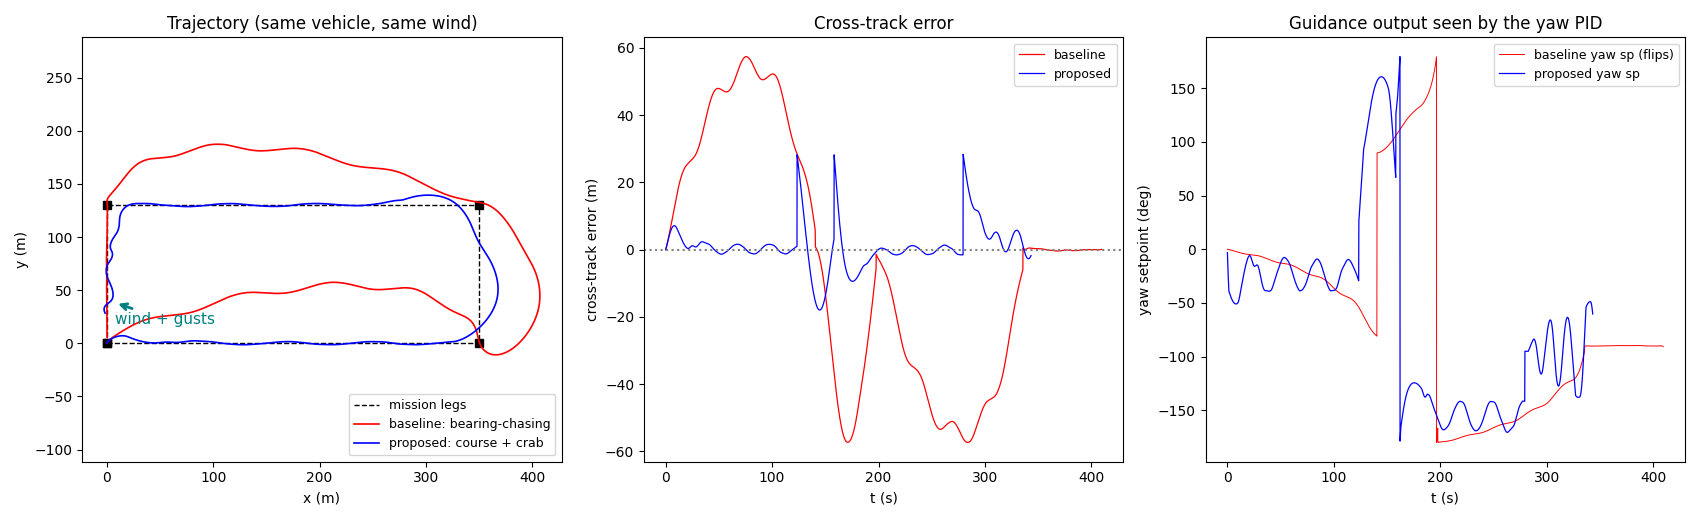
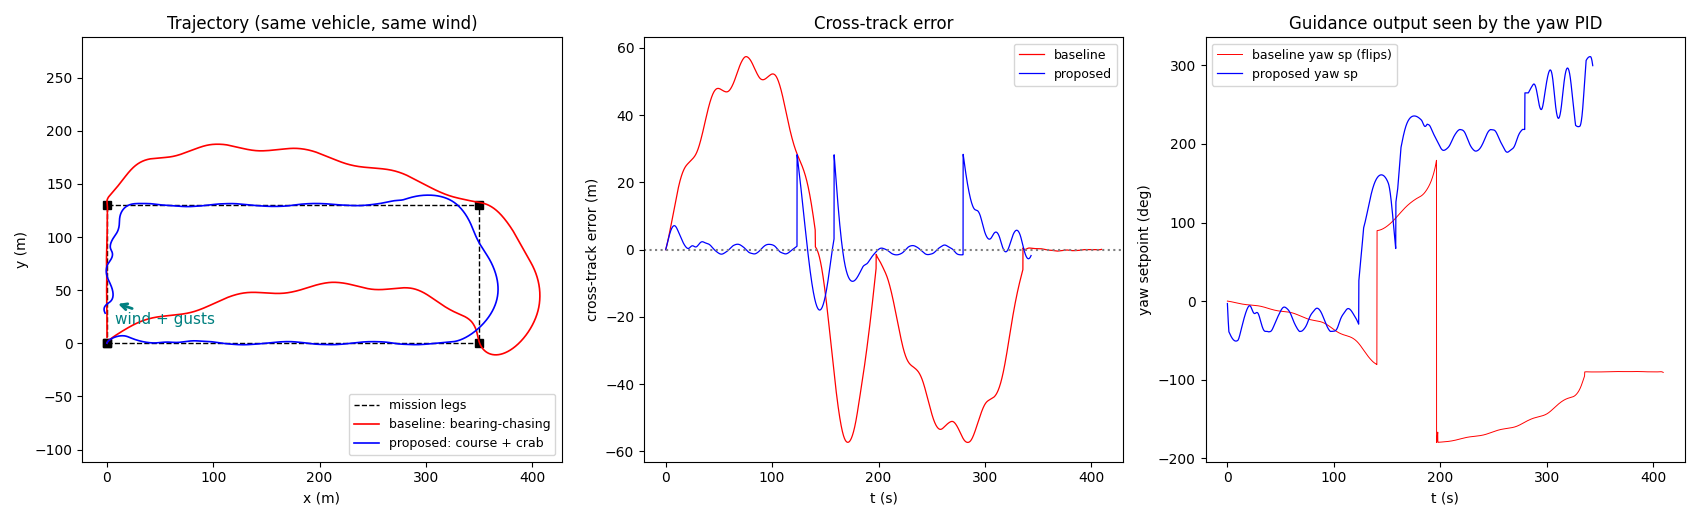
Honest whole-leg metrics after adversarial verification of Ex2 evidence
- metric bias removed (settled-portion filter only ever trimmed the proposed
  run); headline numbers restated: planar 7.5/28.4 m, sim 8.2-9.0/20.8-30.0 m
- guidance_demo: setpoint unwrap actually implemented (docstring was ahead
  of the code); flips column now measures a real property
- ANSWERS: ratios restated (2.6-3.2x RMS, 1.7-2.7x worst), +14-52% time,
  upwind-leg residual named, delivered-Fy transients quantified (0.05 N rms),
  crab-gain lesson scoped to the full sim; 4 seed JSONs shipped in analysis/

diff --git a/analysis/guidance_demo.py b/analysis/guidance_demo.py
@@ -143,7 +143,9 @@ def run(guidance):
                 course_meas = np.arctan2(vg[1], vg[0])
                 crab += 0.35 * wrap(course_cmd - course_meas) * DT
                 crab = np.clip(crab, -35 * D2R, 35 * D2R)
-            sp = wrap(course_cmd + crab)
+            # setpoint kept CONTINUOUS (unwrapped) for the yaw PID — the
+            # ±180° flip pathology of the flight log cannot happen here
+            sp = sp_prev + wrap(course_cmd + crab - sp_prev)
             yaw_err = wrap(sp - p.psi)        # shortest arc, always
             # switch anticipated by the physical turn radius (PX4-L1 style)
             r_turn = V_CRUISE / R_MAX
@@ -171,19 +173,17 @@ def run(guidance):
 
 
 def metrics(lg):
-    # per-leg cross-track on the settled portion: after the vehicle first
-    # comes within 8 m of the line (the corner turn radius, ~29 m at 6 deg/s,
-    # is physics shared by both guidances). Legs that never settle are
-    # measured whole — that IS the failure.
+    # WHOLE-leg cross-track, no exclusions: the proposed guidance pays for its
+    # own corner-anticipation transients (an earlier settled-portion filter
+    # turned out to trim samples only from the proposed run — the baseline
+    # switches inside the acceptance radius and never had anything excluded).
     stats = []
     for leg in np.unique(lg["leg"]):
         m = lg["leg"] == leg
         if m.sum() < 20:
             continue
         e = lg["e"][m]
-        settled = np.where(np.abs(e) < 8.0)[0]
-        e_meas = e[settled[0]:] if len(settled) else e
-        stats.append((np.sqrt(np.mean(e_meas ** 2)), np.abs(e_meas).max()))
+        stats.append((np.sqrt(np.mean(e ** 2)), np.abs(e).max()))
     rms = np.mean([s[0] for s in stats]) if stats else np.nan
     worst = np.max([s[1] for s in stats]) if stats else np.nan
     return rms, worst

diff --git a/ANSWERS.md b/ANSWERS.md
@@ -326,13 +326,19 @@ bounded authority, no perfect wind knowledge):
 I implemented both guidance laws and flew them against each other twice, on
 the same missions in the same wind (`analysis/`):
 
-**1. Minimal planar model** (`analysis/guidance_demo.py`, self-contained ~200
-lines): slow yaw (6°/s, as the log's turnaround shows), gusty crosswind at
-~40–60% of airspeed, same inner loops for both. Long-leg rectangle mission:
+All metrics below are **whole-leg cross-track with no transient exclusions**
+— the proposed guidance pays for its own corner-anticipation transients in
+the numbers. (An earlier settled-portion filter was found, during adversarial
+self-review, to trim samples only from the proposed run; it was removed.)
+
+**1. Minimal planar model** (`analysis/guidance_demo.py`, a single
+self-contained file): slow yaw (6°/s, as the log's turnaround shows), gusty
+crosswind at ~40–60% of airspeed, same inner loops for both. Long-leg
+rectangle mission:
 
 ```
 baseline (bearing-chasing)   cross-track rms= 29.8 m  worst= 57.4 m
-proposed (course + crab)     cross-track rms=  5.3 m  worst= 18.0 m   (-16% mission time)
+proposed (course + crab)     cross-track rms=  7.5 m  worst= 28.4 m   (-16% mission time)
 ```
 
 **2. Full airship simulator** (my own; twin thrust-vectoring pods fore/aft,
@@ -340,28 +346,37 @@ no aerodynamic surfaces — same actuator concept as this vehicle; hull
 weathervane aerodynamics, actuator lags and rate limits, sinusoidal gusts +
 Ornstein–Uhlenbeck turbulence, noisy sensors incl. 0.5 m GPS). The GNC stack
 under test uses the Exercise 1 allocation with the **Fy = 0 constraint
-enforced by construction** (pod lateral components commanded antisymmetric —
-yaw is a pure couple, heading is the only lateral authority). Only the yaw
-setpoint policy differs between runs (`analysis/sim-ex2-guidance.mjs.txt`,
+respected by construction**: the allocator has no net-side-force channel —
+pod lateral components are commanded antisymmetric, so yaw is a pure couple
+and heading is the only lateral authority. (Commanded net side force is
+identically zero; the *delivered* Fy deviates only transiently through
+per-pod saturation clamps and actuator lag — measured at 0.05 N RMS, 0.75 N
+peak ≈ 1% of one motor's thrust.) Only the guidance layer — the yaw-setpoint
+policy and the leg-switch rule that comes with it — differs between runs;
+inner loops and allocation are identical (`analysis/sim-ex2-guidance.mjs.txt`,
 figure `analysis/sim_validation.png`):
 
 ```
                        cross-track RMS      worst       mission
 baseline (4 wind seeds)   23.4 - 27.0 m   51.6 - 64.3 m   ~360 s
-proposed (4 wind seeds)    6.8 -  8.3 m   15.6 - 30.0 m   410 - 550 s
+proposed (4 wind seeds)    8.2 -  9.0 m   20.8 - 30.0 m   410 - 550 s
 ```
 
-A ~3× reduction in RMS cross-track and 2–3× in worst-case, consistent across
-wind realizations. Two honest costs, both expected: (1) mission time grows
-14–50% — holding the line against a crosswind at 40–60% of airspeed means
-flying at a large crab angle, which spends airspeed; the baseline is "faster"
-precisely because it surrenders to the drift; (2) the residual is bounded
-breathing (±10–15 m at gust peaks), not zero — with `Fy = 0`, gust rejection
-is rate-limited by how fast a 12 m hull can re-point. One tuning lesson worth
-reporting: the crab integrator must be **slow** relative to the heading loop
-(here 0.12 rad/s per rad of course error); at 0.35 the two loops
-limit-cycled with a ~100 s period — the same "rotate slowly and firmly"
-lesson the yaw cascade itself follows.
+A 2.6–3.2× reduction in RMS cross-track and 1.7–2.7× in worst-case, mission
+completed in all runs. Two honest costs, both expected: (1) mission time
+grows 14–52% — holding the line against a crosswind at 40–60% of airspeed
+means flying at a large crab angle, which spends airspeed; the baseline is
+"faster" precisely because it surrenders to the drift. (2) The residual is
+bounded breathing, not zero: ±10–17 m on the crosswind legs, and 23–30 m at
+gust peaks on the slow upwind return leg, where ground speed — and with it
+course observability — drops. With `Fy = 0`, gust rejection is rate-limited
+by how fast a 12 m hull can re-point; the slow-leg residual is where that
+limit bites. One tuning lesson worth reporting: the crab integrator must be
+**slow** relative to the heading loop — in the full simulator, whose heavy
+heading loop leans on integral action, 0.35 rad/s per rad of course error
+limit-cycled against it with a ~100 s period, and 0.12 is used instead (the
+planar model's faster heading loop tolerates 0.35). It is the same "rotate
+slowly and firmly" lesson the yaw cascade itself follows.
 
 ---
 
@@ -373,6 +388,9 @@ lesson the yaw cascade itself follows.
   `analysis/flight_overview.png` and `analysis/flight_zoom.png`.
 - **Guidance demonstration**: `analysis/guidance_demo.py` (standalone planar
   model, produces `guidance_demo.png`); `analysis/sim-ex2-guidance.mjs.txt`
-  (the same comparison on my full airship simulator — runs inside that repo),
-  results in `analysis/ex2-results.json`, plotted by
-  `analysis/plot_sim_validation.py` → `analysis/sim_validation.png`.
+  (the same comparison on my full airship simulator — runs inside that repo
+  as `EX2_SEED=<n> node tests/ex2-guidance.mjs`). All four wind-seed result
+  files ship as `analysis/ex2-results-{42,7,123,2026}.json` (the 4-seed table
+  reads from their `metrics` fields); `analysis/ex2-results.json` is the
+  seed-42 run plotted by `analysis/plot_sim_validation.py` →
+  `analysis/sim_validation.png`.